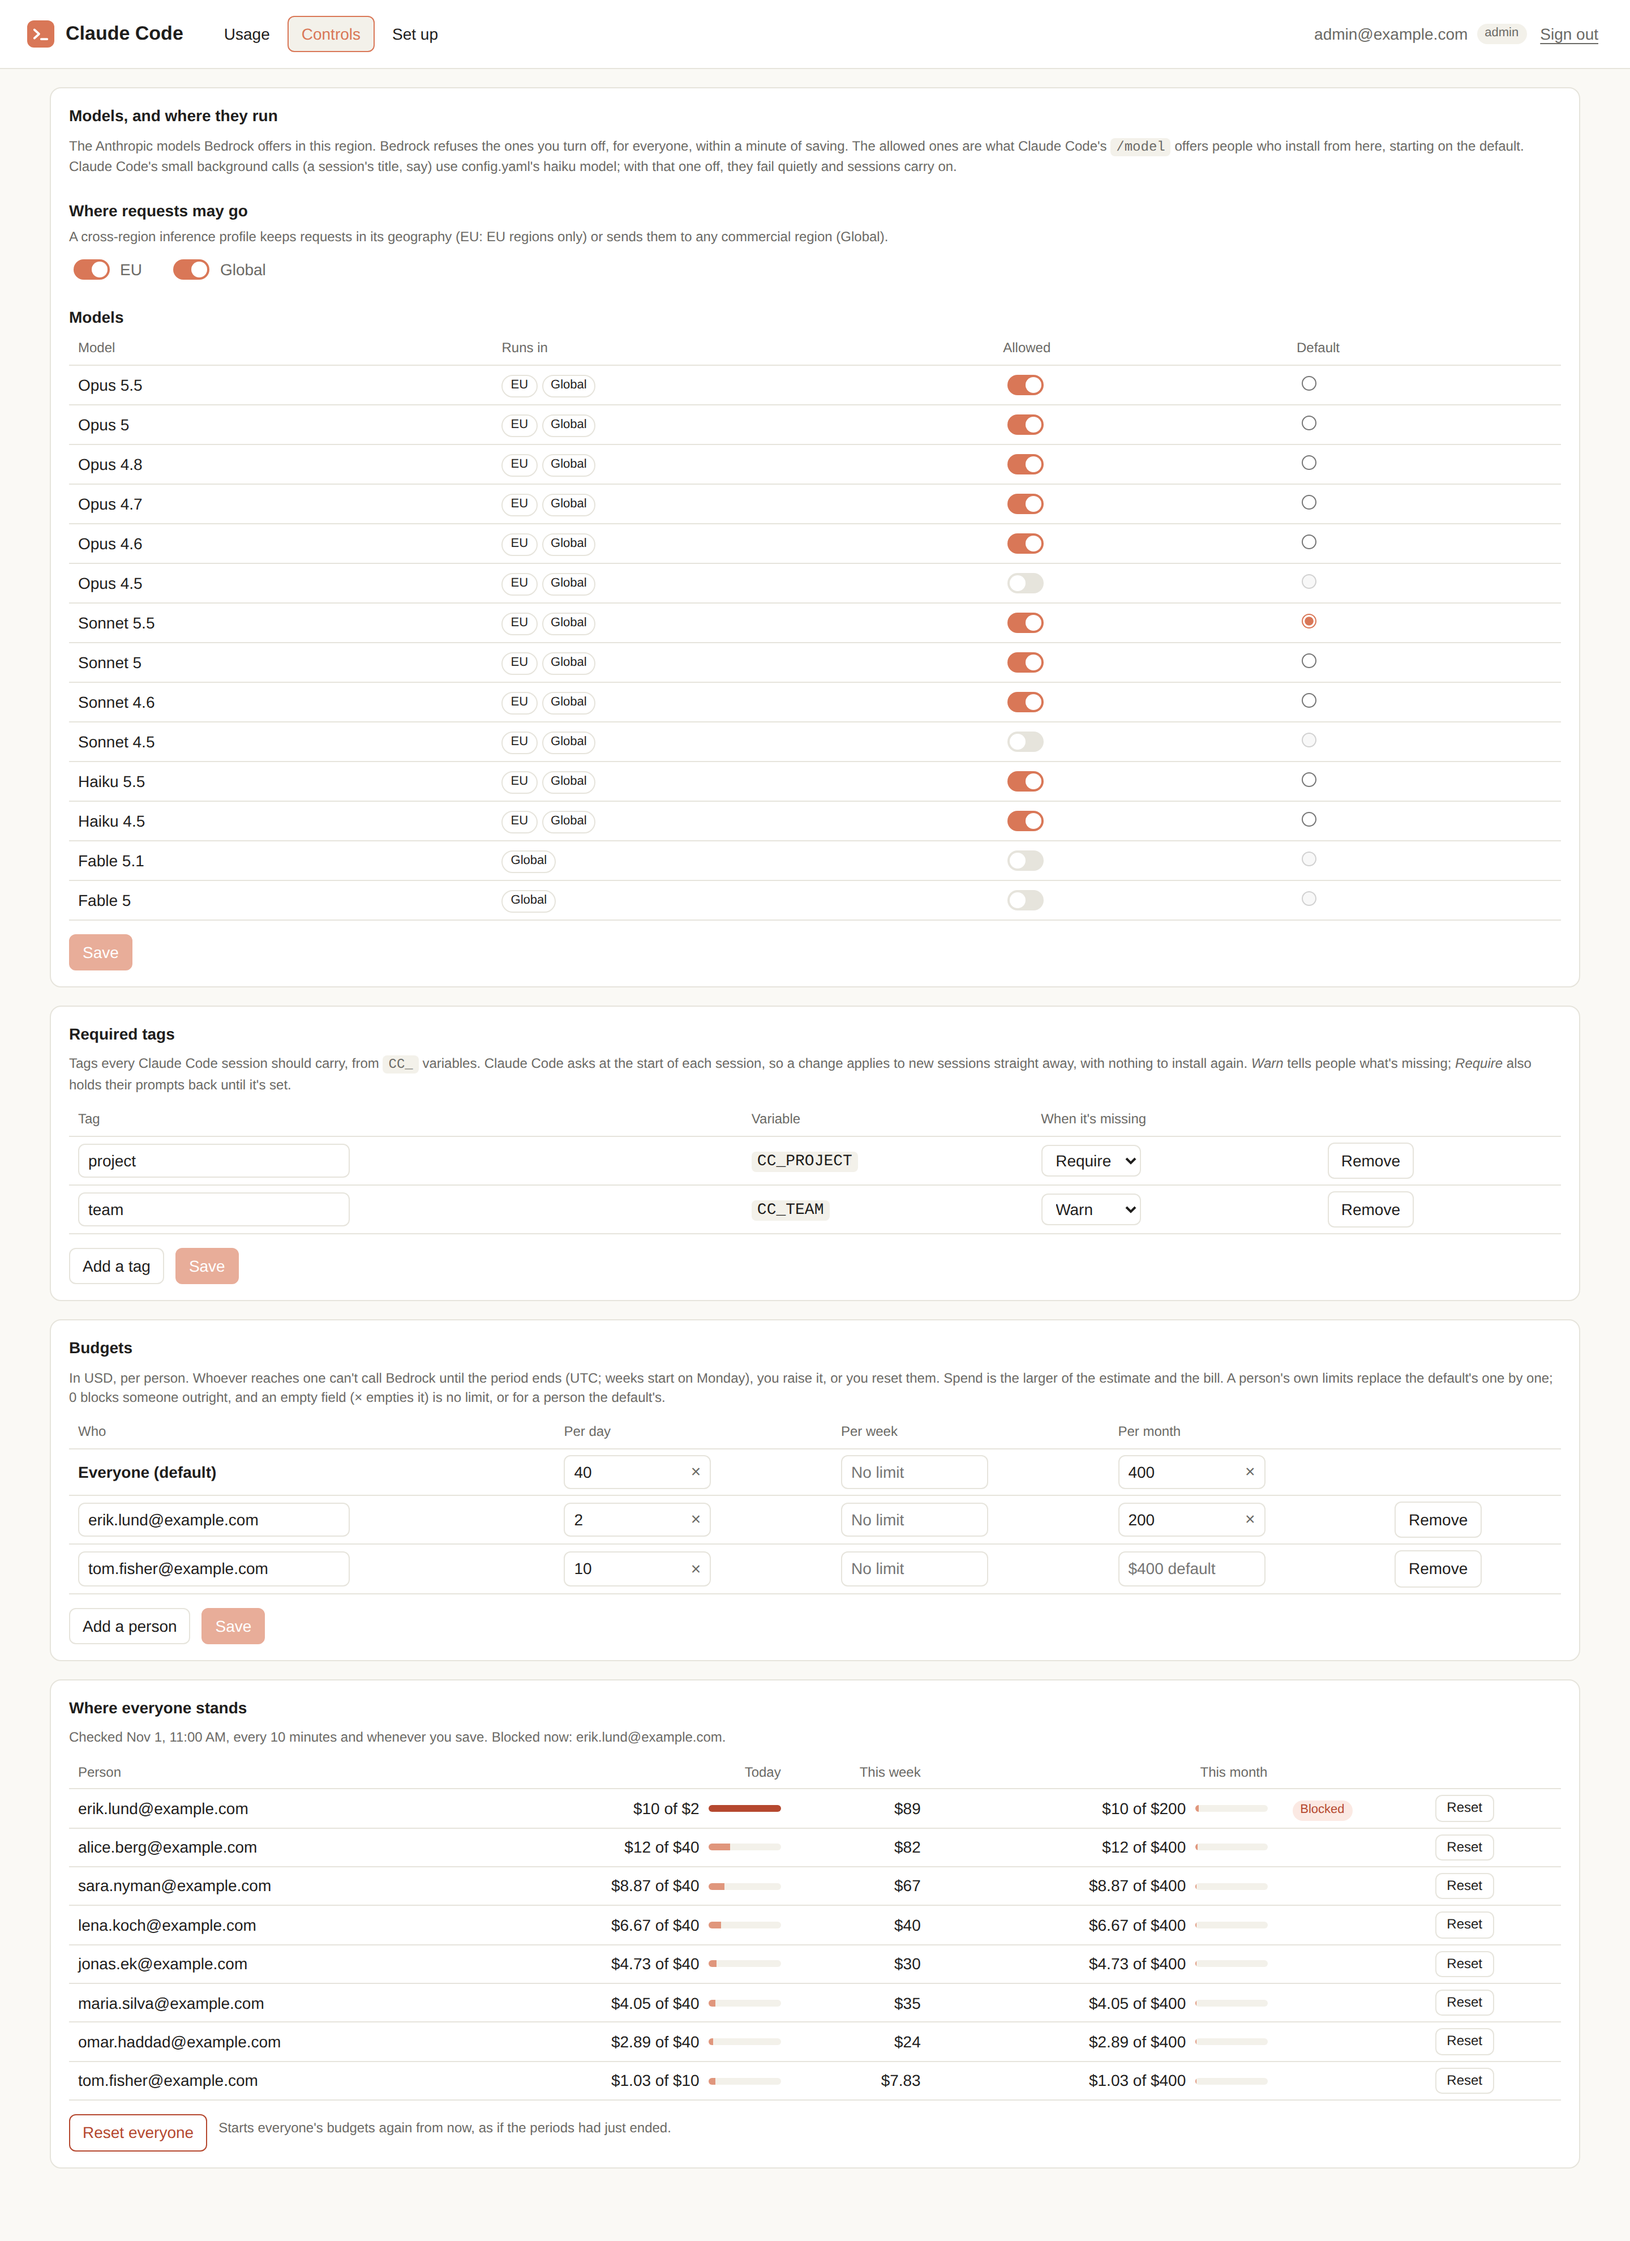
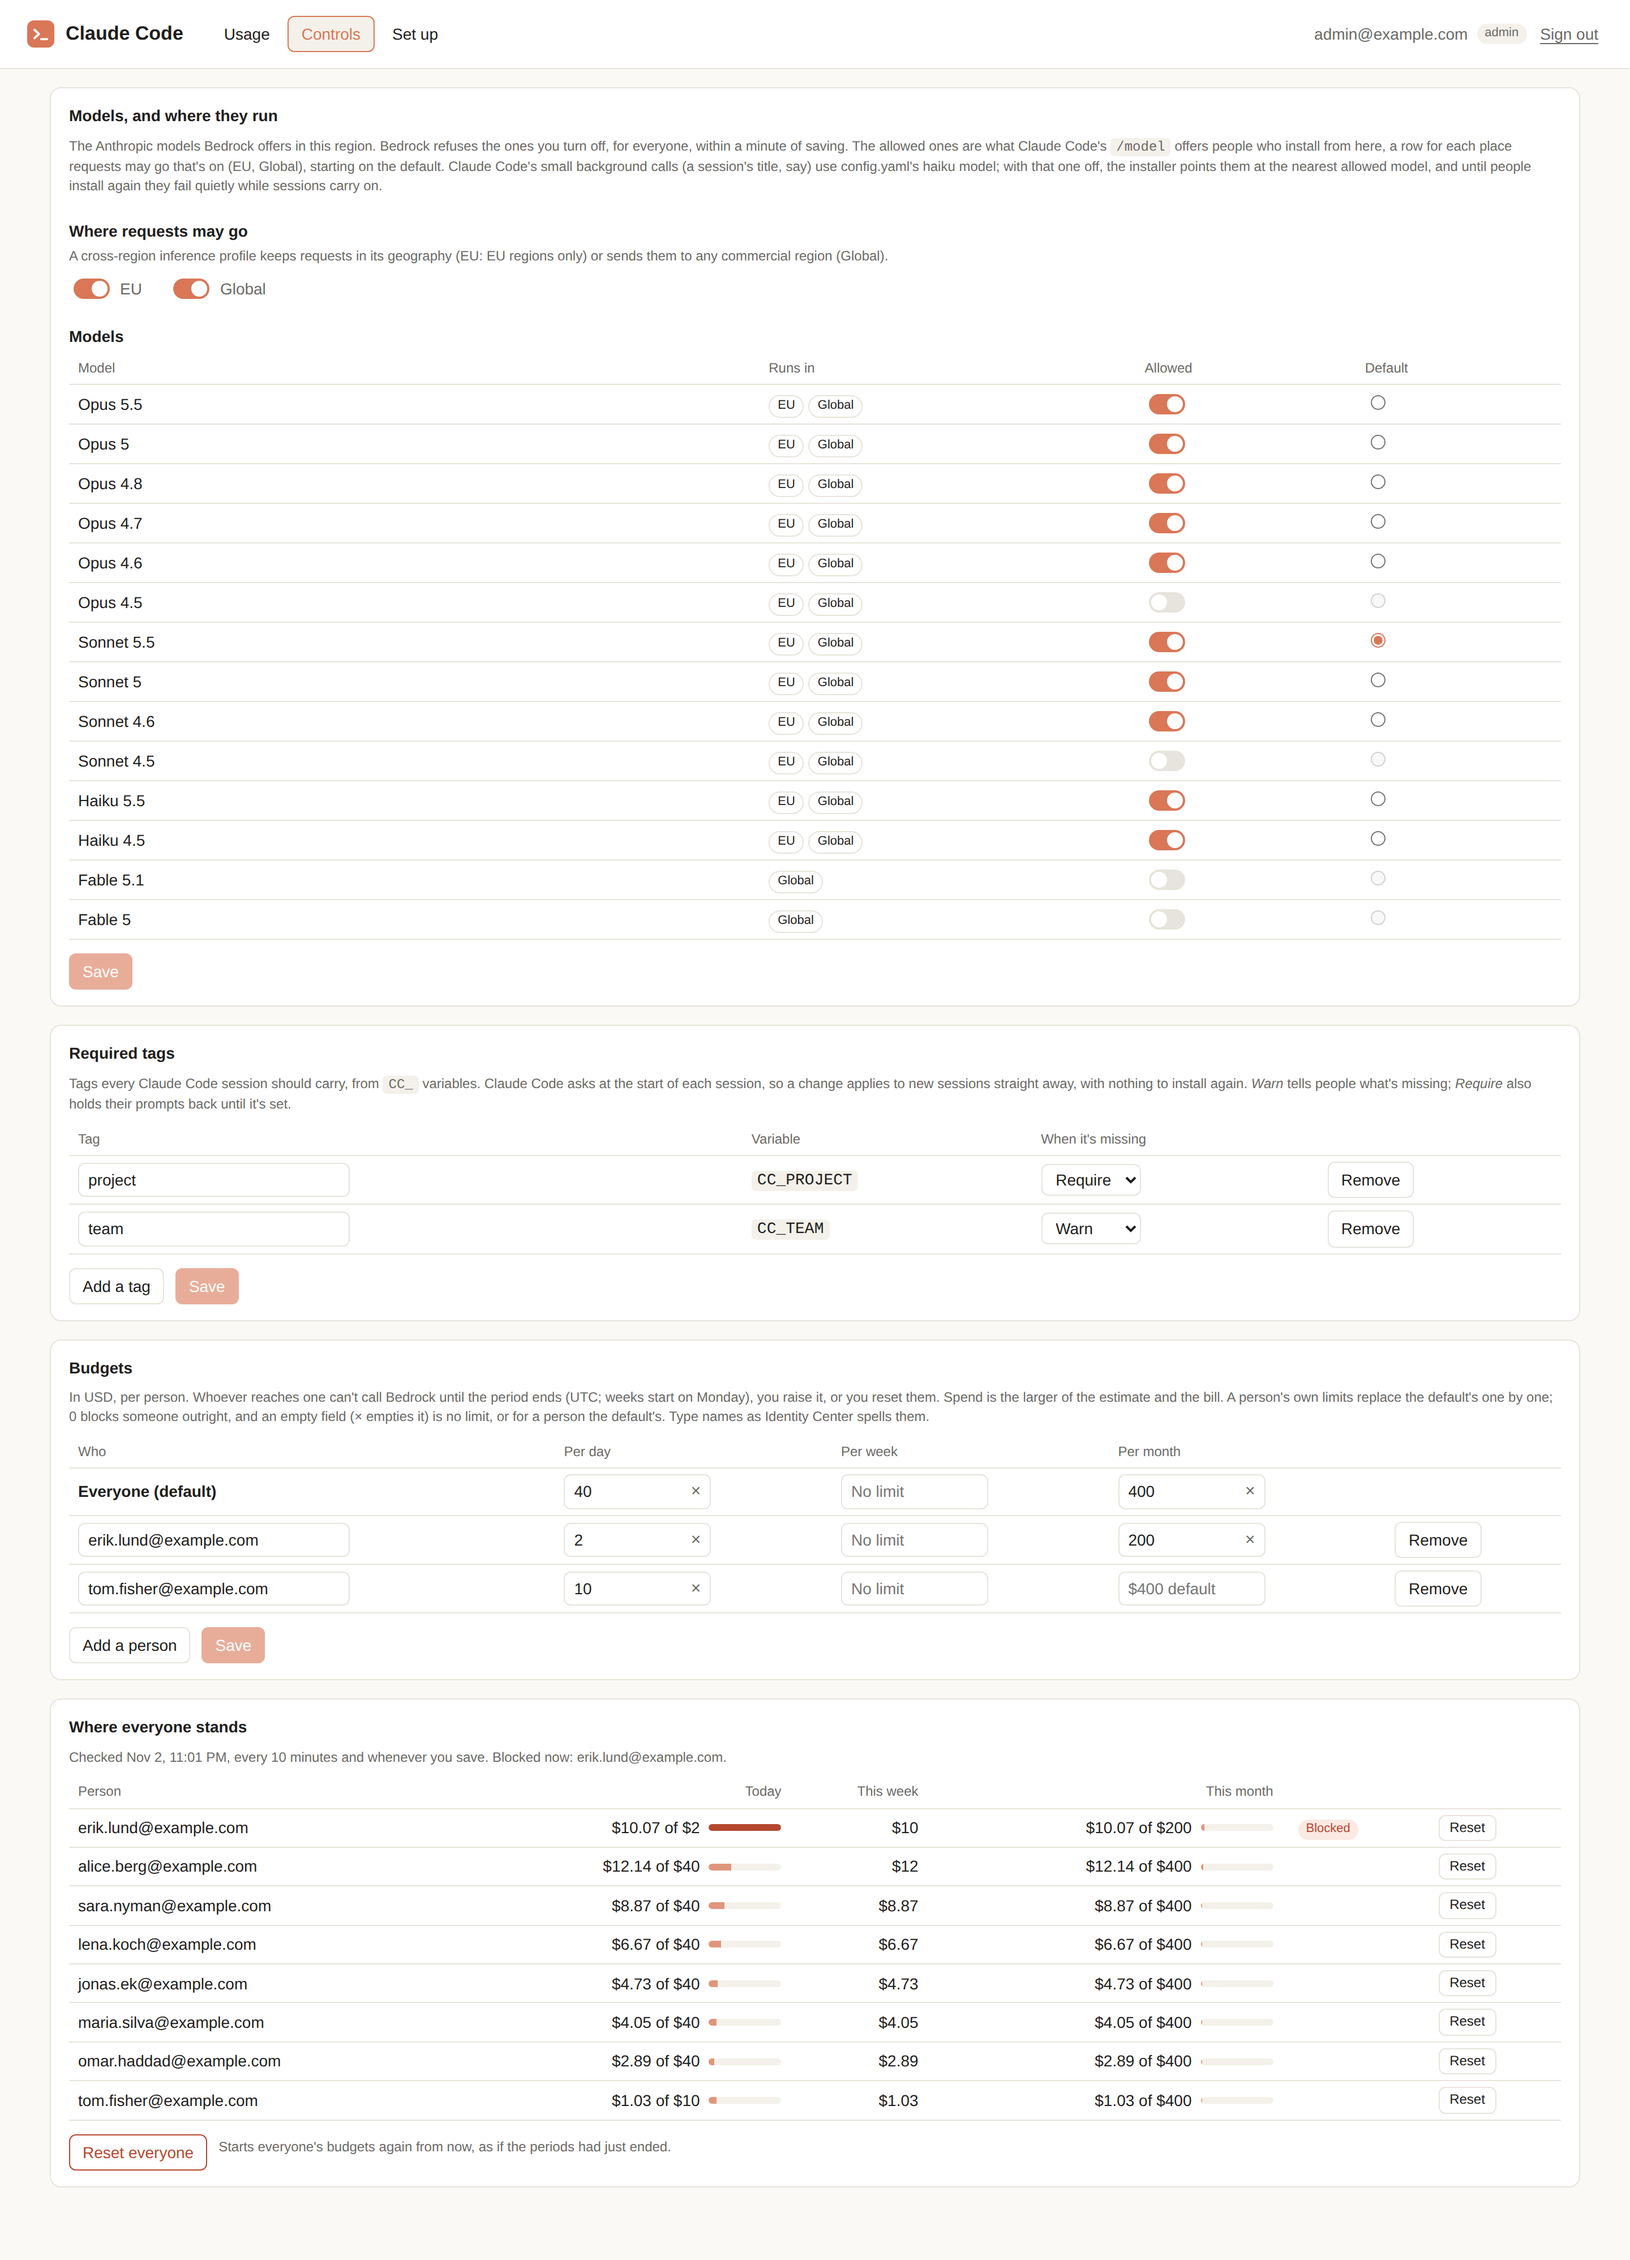
Pictures after #15 and #16; the haiku fallback said as it is (#17)
- dashboard-controls, -setup and -usage recreated: #15 changed the Controls
  help, the Budgets text, /model per routing on Set up and the download note.
- The README and the Controls help still said background calls fail quietly
  with config.yaml's haiku model off; the installer points them at the nearest
  allowed model since #10, and they fail quietly only until people install
  again.
- /model checked in a real Claude Code 2.1.312 session on the test stack: the
  seven rows (Opus, Sonnet, Haiku 5.5 · EU and · Global, Fable 5.1) and the
  default Sonnet 5.5 · EU; a Global and an EU row both answer.

diff --git a/web/index.html b/web/index.html
@@ -100,7 +100,8 @@
             within a minute of saving. The allowed ones are what Claude Code's <code>/model</code> offers people who
             install from here, a row for each place requests may go that's on (EU, Global), starting on the default.
             Claude Code's small background calls (a session's title, say) use config.yaml's haiku model; with that one
-            off, they fail quietly and sessions carry on.
+            off, the installer points them at the nearest allowed model, and until people install again they fail
+            quietly while sessions carry on.
           </p>
           <div id="model-controls"></div>
           <div class="actions">

diff --git a/README.md b/README.md
@@ -219,8 +219,9 @@ name), and the one marked **Default** is what new sessions start on (through the
 what someone picks in `/model` stays their choice until they run the installer again. The installer writes these as
 Claude Code's `modelPicker` and `ANTHROPIC_DEFAULT_MODEL`, so people get a new list by downloading and running it
 again; Bedrock enforces a change straight away either way. Any model can be off, `config.yaml`'s too. Claude Code
-also makes small background calls (a session's title, say) with `config.yaml`'s haiku model; with that one off, they
-fail quietly and sessions carry on.
+also makes small background calls (a session's title, say) with `config.yaml`'s haiku model; with that one off, the
+installer points them at the nearest allowed model (Sonnet), and until people install again they fail quietly while
+sessions carry on.
 
 **Where requests may go.** Each cross-region inference profile routes within a geography (`eu.`: EU regions only) or
 to any commercial region (`global.`). Turn a routing off and every profile through it is denied, for every model;
